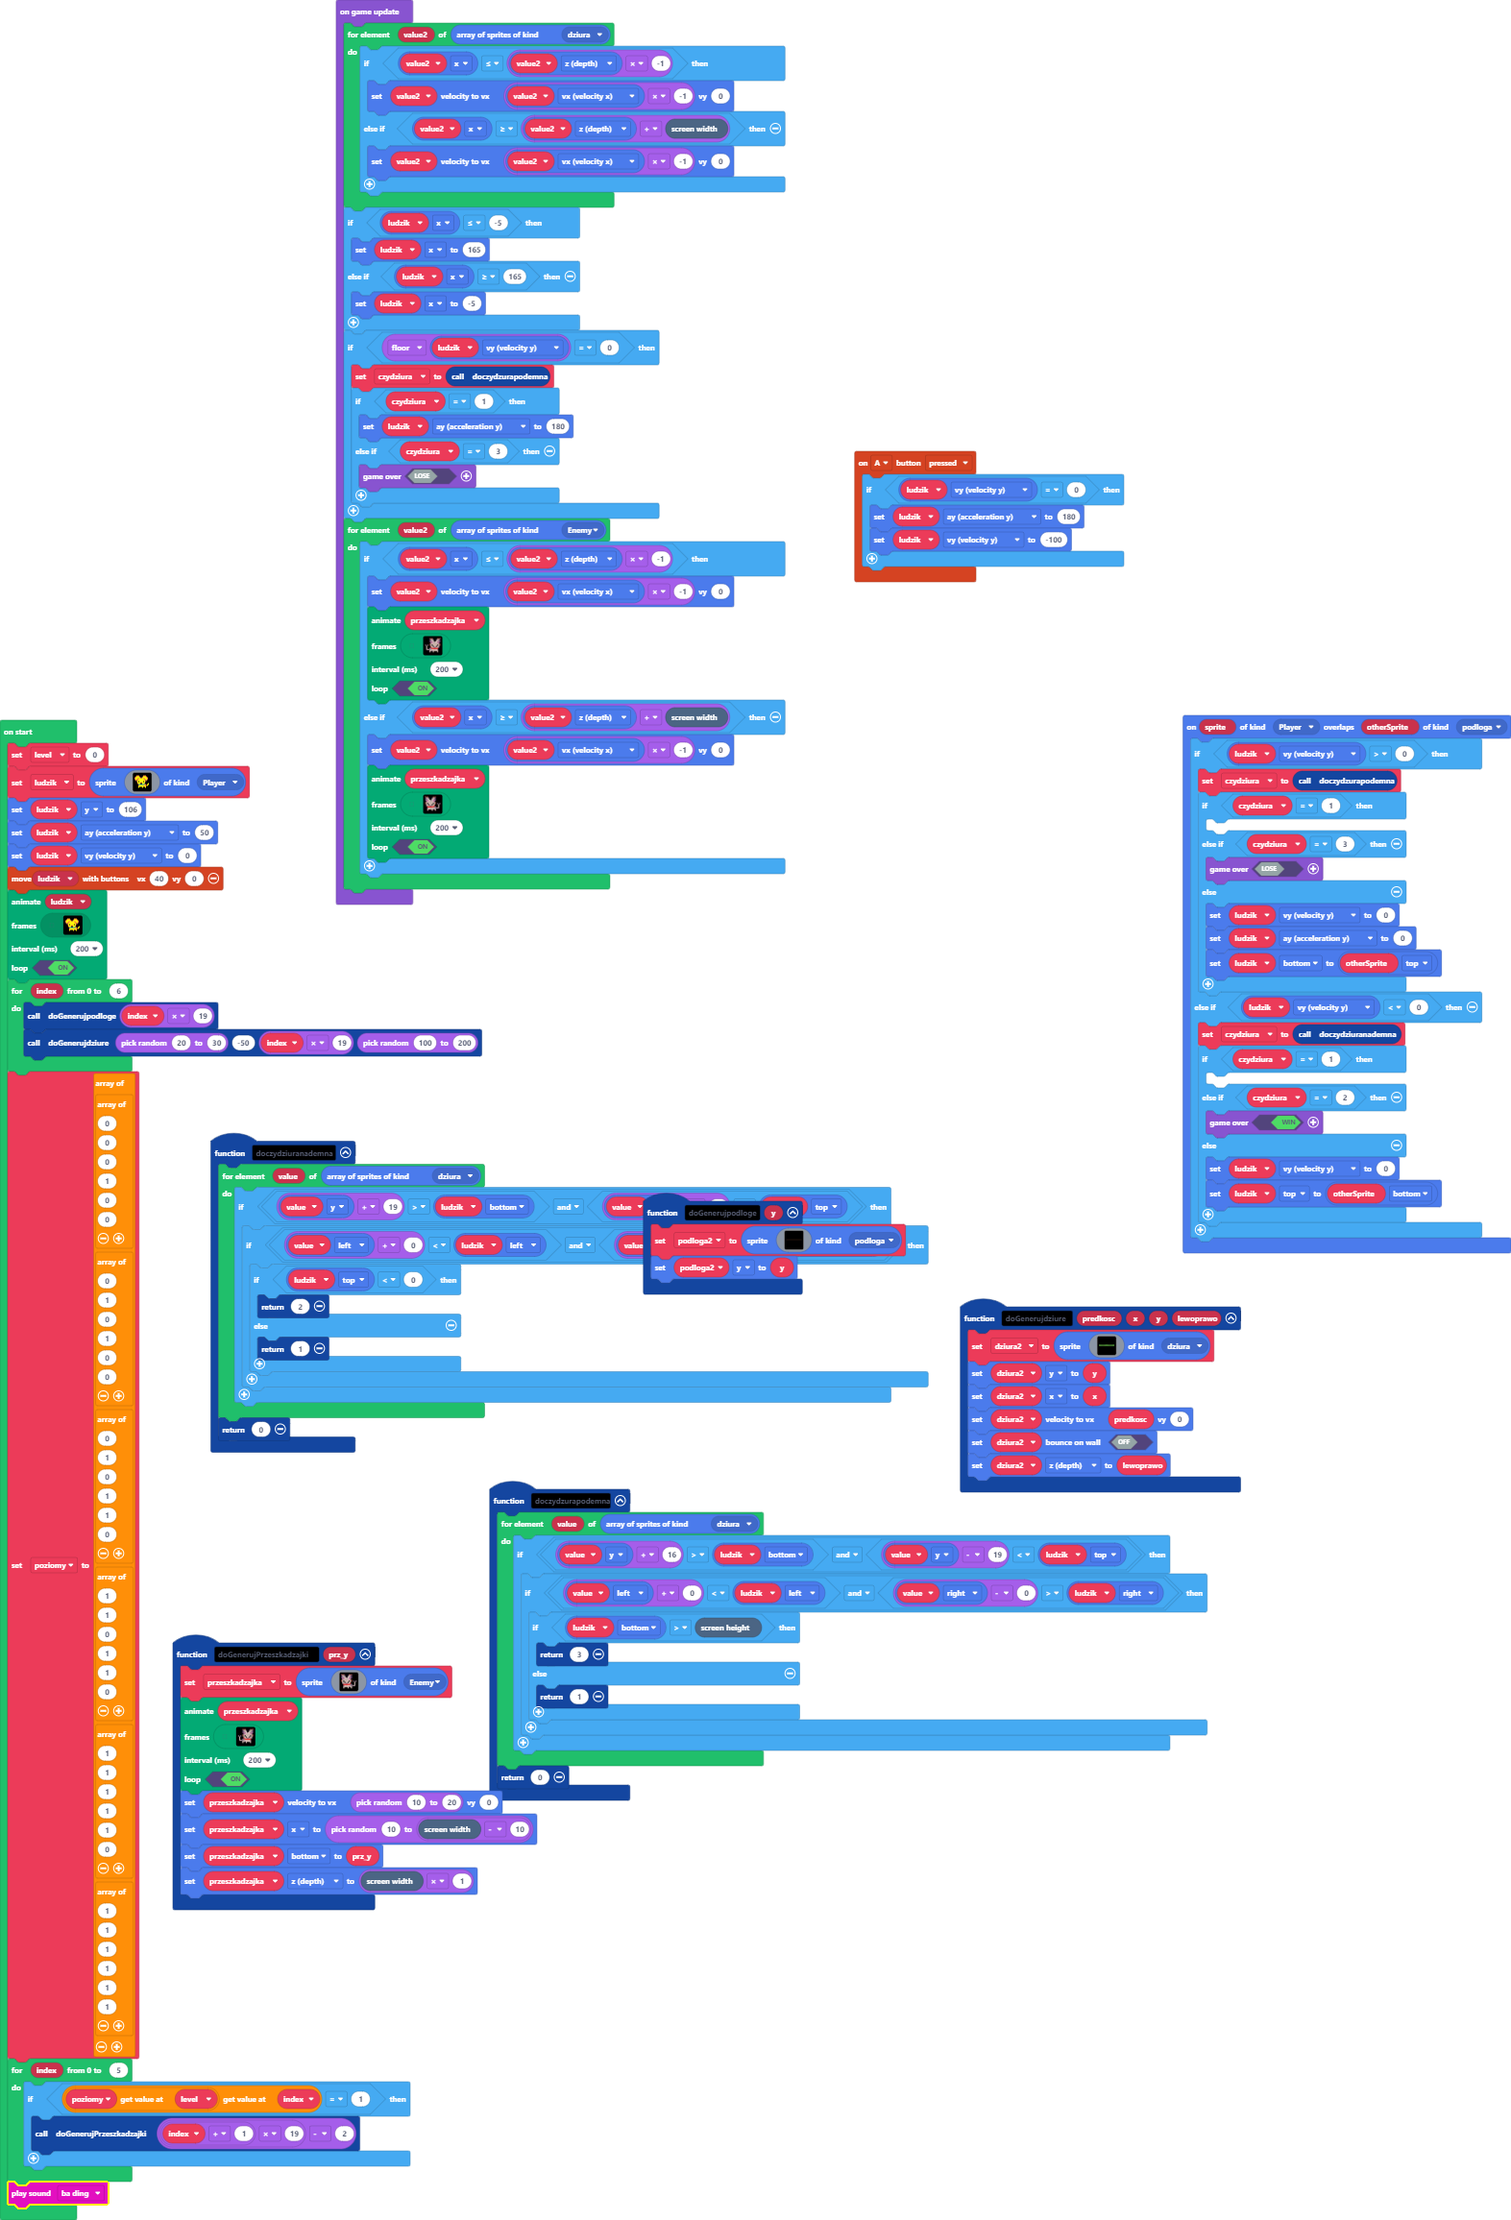
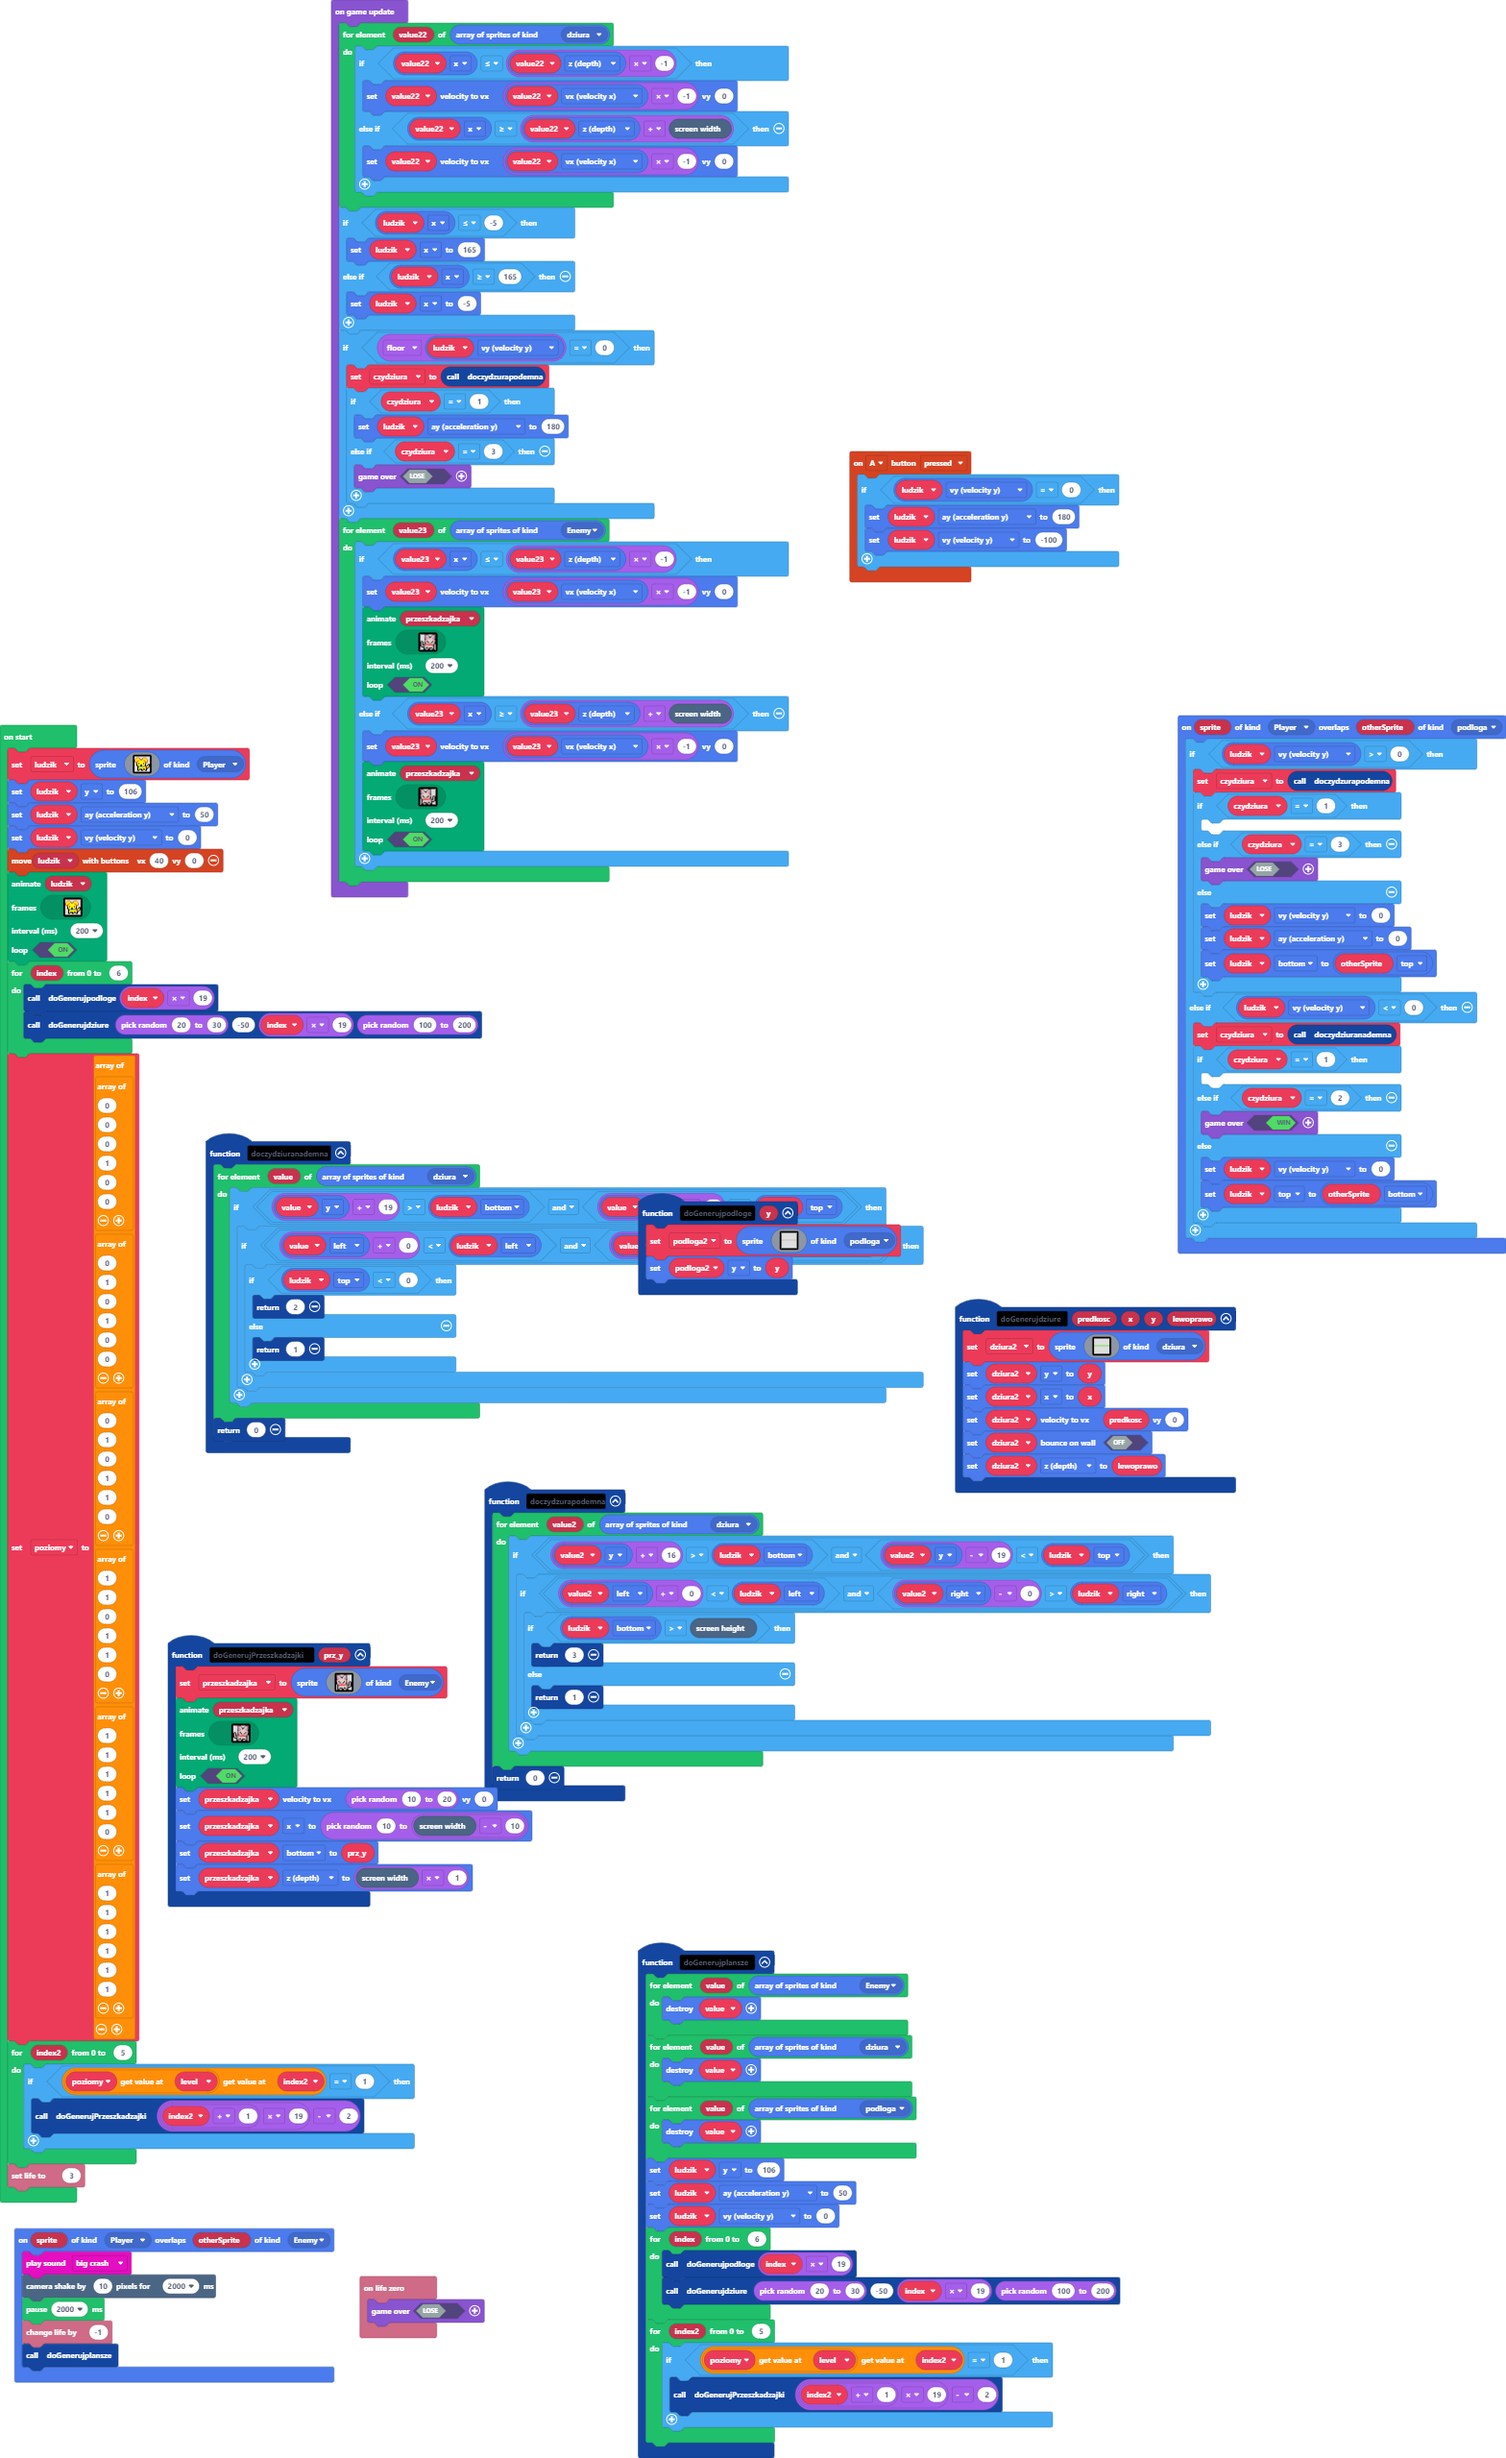
Update main.blocks, main.ts

diff --git a/main.ts b/main.ts
@@ -26,6 +26,29 @@ sprites.onOverlap(SpriteKind.Player, SpriteKind.podloga, function (sprite, other
         }
     }
 })
+function doGenerujplansze () {
+    for (let value of sprites.allOfKind(SpriteKind.Enemy)) {
+        value.destroy()
+    }
+    for (let value of sprites.allOfKind(SpriteKind.dziura)) {
+        value.destroy()
+    }
+    for (let value of sprites.allOfKind(SpriteKind.podloga)) {
+        value.destroy()
+    }
+    ludzik.y = 106
+    ludzik.ay = 50
+    ludzik.vy = 0
+    for (let index = 0; index <= 6; index++) {
+        doGenerujpodloge(index * 19)
+        doGenerujdziure(randint(20, 30), -50, index * 19, randint(100, 200))
+    }
+    for (let index2 = 0; index2 <= 5; index2++) {
+        if (poziomy[level][index2] == 1) {
+            doGenerujPrzeszkadzajki((index2 + 1) * 19 - 2)
+        }
+    }
+}
 controller.A.onEvent(ControllerButtonEvent.Pressed, function () {
     if (ludzik.vy == 0) {
         ludzik.ay = 180
@@ -47,9 +70,9 @@ function doczydziuranademna () {
     return 0
 }
 function doczydzurapodemna () {
-    for (let value of sprites.allOfKind(SpriteKind.dziura)) {
-        if (value.y + 16 > ludzik.bottom && value.y - 19 < ludzik.top) {
-            if (value.left + 0 < ludzik.left && value.right - 0 > ludzik.right) {
+    for (let value2 of sprites.allOfKind(SpriteKind.dziura)) {
+        if (value2.y + 16 > ludzik.bottom && value2.y - 19 < ludzik.top) {
+            if (value2.left + 0 < ludzik.left && value2.right - 0 > ludzik.right) {
                 if (ludzik.bottom > scene.screenHeight()) {
                     return 3
                 } else {
@@ -60,6 +83,9 @@ function doczydzurapodemna () {
     }
     return 0
 }
+info.onLifeZero(function () {
+    game.over(false)
+})
 function doGenerujpodloge (y: number) {
     podloga2 = sprites.create(img`
         eeeeeeeeeeeeeeeeeeeeeeeeeeeeeeeeeeeeeeeeeeeeeeeeeeeeeeeeeeeeeeeeeeeeeeeeeeeeeeeeeeeeeeeeeeeeeeeeeeeeeeeeeeeeeeeeeeeeeeeeeeeeeeeeeeeeeeeeeeeeeeeeeeeeeeeeeeeeeeee
@@ -151,12 +177,20 @@ function doGenerujdziure (predkosc: number, x: number, y: number, lewoprawo: num
     dziura2.setBounceOnWall(false)
     dziura2.z = lewoprawo
 }
+sprites.onOverlap(SpriteKind.Player, SpriteKind.Enemy, function (sprite, otherSprite) {
+    music.bigCrash.play()
+    scene.cameraShake(10, 2000)
+    pause(2000)
+    info.changeLifeBy(-1)
+    doGenerujplansze()
+})
 let dziura2: Sprite = null
 let przeszkadzajka: Sprite = null
 let podloga2: Sprite = null
 let czydziura = 0
-let ludzik: Sprite = null
 let level = 0
+let poziomy: number[][] = []
+let ludzik: Sprite = null
 ludzik = sprites.create(img`
     . . 4 4 4 . . . . 4 4 4 . . . . 
     . 4 5 5 5 e . . e 5 5 5 4 . . . 
@@ -232,7 +266,7 @@ for (let index = 0; index <= 6; index++) {
     doGenerujpodloge(index * 19)
     doGenerujdziure(randint(20, 30), -50, index * 19, randint(100, 200))
 }
-let poziomy = [
+poziomy = [
 [
 0,
 0,
@@ -282,18 +316,18 @@ let poziomy = [
 1
 ]
 ]
-for (let index = 0; index <= 5; index++) {
-    if (poziomy[level][index] == 1) {
-        doGenerujPrzeszkadzajki((index + 1) * 19 - 2)
+for (let index2 = 0; index2 <= 5; index2++) {
+    if (poziomy[level][index2] == 1) {
+        doGenerujPrzeszkadzajki((index2 + 1) * 19 - 2)
     }
 }
-music.baDing.play()
+info.setLife(3)
 game.onUpdate(function () {
-    for (let value2 of sprites.allOfKind(SpriteKind.dziura)) {
-        if (value2.x <= value2.z * -1) {
-            value2.setVelocity(value2.vx * -1, 0)
-        } else if (value2.x >= value2.z + scene.screenWidth()) {
-            value2.setVelocity(value2.vx * -1, 0)
+    for (let value22 of sprites.allOfKind(SpriteKind.dziura)) {
+        if (value22.x <= value22.z * -1) {
+            value22.setVelocity(value22.vx * -1, 0)
+        } else if (value22.x >= value22.z + scene.screenWidth()) {
+            value22.setVelocity(value22.vx * -1, 0)
         }
     }
     if (ludzik.x <= -5) {
@@ -309,9 +343,9 @@ game.onUpdate(function () {
             game.over(false)
         }
     }
-    for (let value2 of sprites.allOfKind(SpriteKind.Enemy)) {
-        if (value2.x <= value2.z * -1) {
-            value2.setVelocity(value2.vx * -1, 0)
+    for (let value23 of sprites.allOfKind(SpriteKind.Enemy)) {
+        if (value23.x <= value23.z * -1) {
+            value23.setVelocity(value23.vx * -1, 0)
             animation.runImageAnimation(
             przeszkadzajka,
             [img`
@@ -363,8 +397,8 @@ game.onUpdate(function () {
             200,
             true
             )
-        } else if (value2.x >= value2.z + scene.screenWidth()) {
-            value2.setVelocity(value2.vx * -1, 0)
+        } else if (value23.x >= value23.z + scene.screenWidth()) {
+            value23.setVelocity(value23.vx * -1, 0)
             animation.runImageAnimation(
             przeszkadzajka,
             [img`
